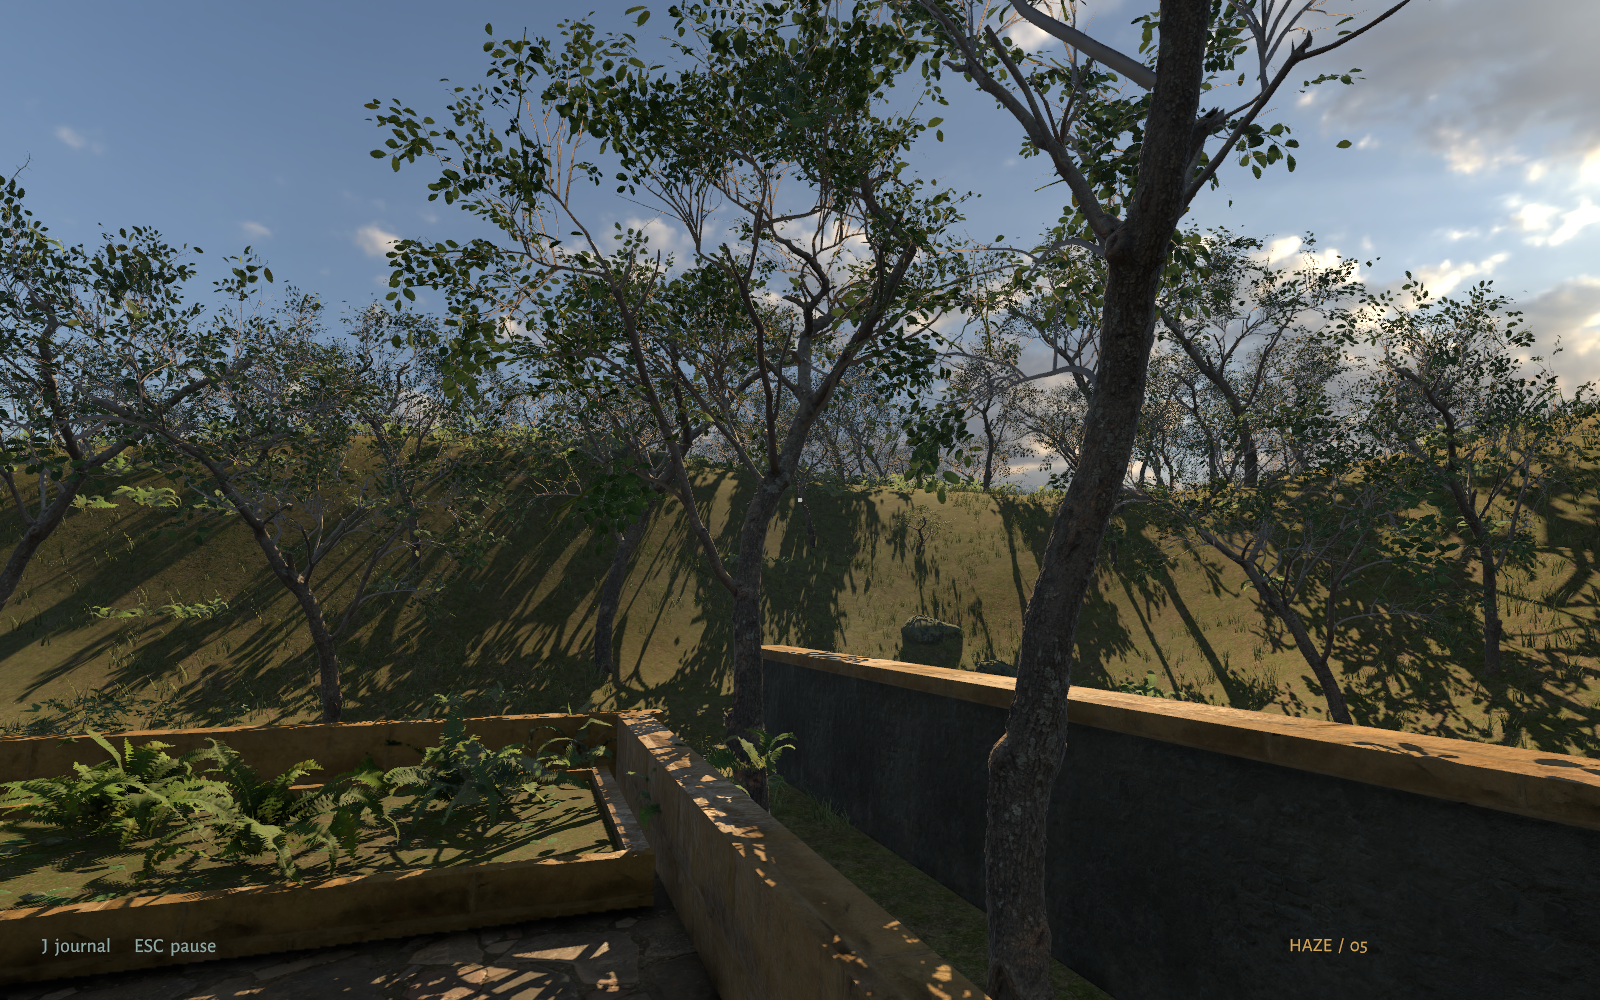
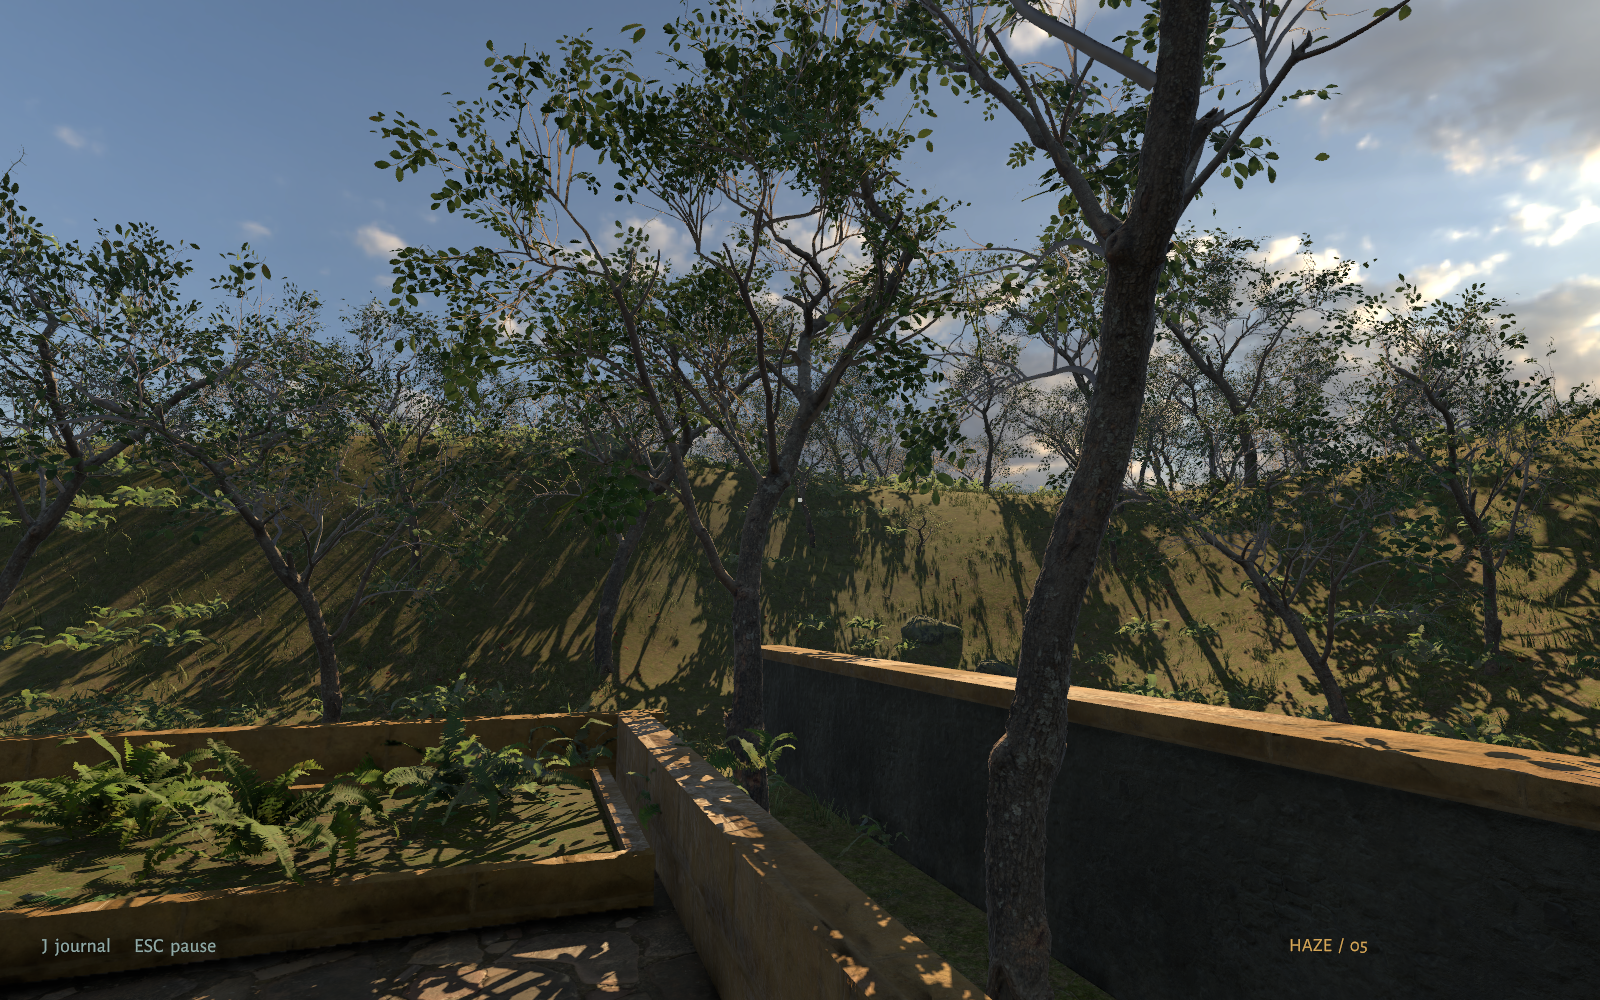
Update Haze stonework and coastal planting, and add the game trailer

diff --git a/VALIDATION.md b/VALIDATION.md
@@ -1,16 +1,22 @@
-# Haze 0.2.0 validation
+# Haze 0.3.0 validation
 
 | Platform | Tested configuration | Result |
 | --- | --- | --- |
-| macOS | Apple M1 Pro, Metal, 1600 × 1000 | 428 checks passed; zero failures or runtime errors |
-| Linux | Omarchy, NVIDIA RTX 3080, Vulkan, 1600 × 1000 | 428 checks passed; zero failures or runtime errors |
-| Linux fallback | NVIDIA RTX 3080, OpenGL, 1600 × 1000 | 34 environment checks passed; zero failures or runtime errors |
+| macOS | Apple M1 Pro, Metal, 1600 × 1000 | 439 checks passed; zero failures or runtime errors |
+| Linux | Omarchy, NVIDIA RTX 3080, Vulkan, 1600 × 1000 | 439 checks passed; zero failures or runtime errors |
+| Linux fallback | NVIDIA RTX 3080, OpenGL, 1600 × 1000 | 45 environment checks passed; zero failures or runtime errors |
 | Windows x64 | Cross-built for Direct3D 11 and Vulkan | Runtime unverified; no Windows test machine was available |
 | Intel Mac | Included in the universal app | Runtime unverified |
 
-The full walkthrough checks story progression, puzzle states, wrong inputs, developer-guide recovery, saved visits, collision, moving passages, inscriptions, reflections, menus, and the ending. It includes 20 camera-position checks of the wall lights' actual illumination and 14 checks of fixture attachments and foliage geometry. Each full native run captured 36 screenshots; representative lighting, window, landscape, and interface views were inspected.
+The full walkthrough checks story progression, puzzle states, wrong inputs, developer-guide recovery, saved visits, collision, moving passages, inscriptions, reflections, menus, and the ending. It includes 20 camera-position checks of the wall lights' actual illumination, fixture attachments, continuous masonry beneath all ten windows, and native groundcover shader and texture support. Each full native run captured 36 screenshots; representative lighting, window, landscape, and interface views were inspected.
 
-At a 60 FPS cap, the scripted traversal averaged 26.01 ms per frame on the Mac and 16.92 ms on Linux, with P95 values of 37.50 ms and 30.68 ms. These measurements describe those machines and that route; they are not minimum hardware requirements.
+At a 60 FPS cap, the scripted traversal averaged 44.02 ms per frame on the Mac and 19.23 ms on Linux, with P95 values of 68.20 ms and 31.60 ms. Exterior views averaged 16.85 ms and 16.67 ms respectively. These measurements describe those machines and that route; they are not minimum hardware requirements.
+
+The denser planting increases rendering cost on the M1 Pro. The previous release averaged 26.01 ms; a repeat of the new walkthrough measured 45.31 ms. Players on similar Macs should expect a lower frame rate inside the bathhouse with this art update.
+
+## Trailer
+
+The trailer was captured from the native updated game at 1920 × 1080, with 1,260 frames at a fixed 30 FPS and no runtime errors. The complete 42-second H.264/AAC film was decoded after composition. Its soundtrack uses the game's own ambience and bells. The capture frame rate is independent of normal gameplay performance.
 
 ## Package checks
 
@@ -18,4 +24,4 @@ Each platform archive contains the complete player, instructions, credits, and c
 
 The Mac app is ad-hoc signed and is not Apple-notarized. Windows is unsigned. Launch instructions explain the platform prompts.
 
-The release's `release-manifest.json` records archive hashes, executable hashes, platform status, and the shared scene source fingerprint.
+The release's `release-manifest.json` records archive hashes, executable hashes, platform status, the trailer hash, and the shared scene source fingerprint.

diff --git a/README.md b/README.md
@@ -2,9 +2,19 @@
 
 A first-person mystery in an abandoned coastal bathhouse. Read the keeper’s papers, restore water, voice, and light, and open the garden. There is no combat or timer.
 
-[Download Haze 0.2.0](https://github.com/gazhenko/haze/releases/tag/v0.2.0)
+[Download Haze 0.3.0](https://github.com/gazhenko/haze/releases/tag/v0.3.0)
 
-![The bathhouse windows and coast](images/windows.png)
+## Trailer
+
+[![Haze trailer preview](images/trailer-preview.gif)](https://github.com/gazhenko/haze/releases/download/v0.3.0/Haze-v0.3.0-Trailer.mp4)
+
+[Watch or download the full 42-second trailer](https://github.com/gazhenko/haze/releases/download/v0.3.0/Haze-v0.3.0-Trailer.mp4) · 1080p · sound on
+
+## Environment update
+
+Window ironwork now sits in dressed stone coping over continuous masonry and foundations. Coastal banks have more photographed grasses, ferns, sorrel, moss, fallen leaves, and branch debris.
+
+![The bathhouse window bases and coast](images/windows.png)
 
 ## Download and play
 
@@ -12,9 +22,9 @@ Choose the archive for your computer under the GitHub release’s **Assets**. Ex
 
 | Computer | Download | Launch | Verification |
 | --- | --- | --- | --- |
-| Windows, Intel/AMD 64-bit | [Windows-x64.zip](https://github.com/gazhenko/haze/releases/download/v0.2.0/Haze-v0.2.0-Windows-x64.zip) | Open `Haze.exe` | Built successfully; runtime unverified |
-| Mac, Apple Silicon or Intel | [macOS-universal.zip](https://github.com/gazhenko/haze/releases/download/v0.2.0/Haze-v0.2.0-macOS-universal.zip) | Open `Haze.app` | Native walkthrough on Apple Silicon; Intel unverified |
-| Linux, Intel/AMD 64-bit | [Linux-x64.tar.gz](https://github.com/gazhenko/haze/releases/download/v0.2.0/Haze-v0.2.0-Linux-x64.tar.gz) | Run `./play.sh` | Native walkthrough on Omarchy with Vulkan |
+| Windows, Intel/AMD 64-bit | [Windows-x64.zip](https://github.com/gazhenko/haze/releases/download/v0.3.0/Haze-v0.3.0-Windows-x64.zip) | Open `Haze.exe` | Built successfully; runtime unverified |
+| Mac, Apple Silicon or Intel | [macOS-universal.zip](https://github.com/gazhenko/haze/releases/download/v0.3.0/Haze-v0.3.0-macOS-universal.zip) | Open `Haze.app` | Native walkthrough on Apple Silicon; Intel unverified |
+| Linux, Intel/AMD 64-bit | [Linux-x64.tar.gz](https://github.com/gazhenko/haze/releases/download/v0.3.0/Haze-v0.3.0-Linux-x64.tar.gz) | Run `./play.sh` | Native walkthrough on Omarchy with Vulkan |
 
 Use a keyboard and mouse. The Mac app uses Metal. Windows defaults to Direct3D 11. Linux defaults to Vulkan. These are desktop builds; ARM Windows/Linux and mobile devices are not included.
 
